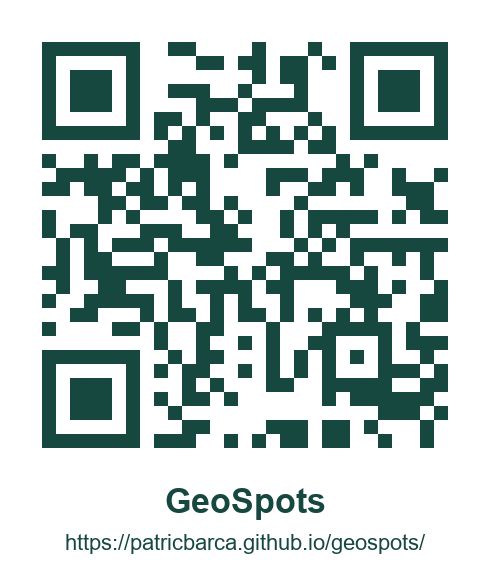
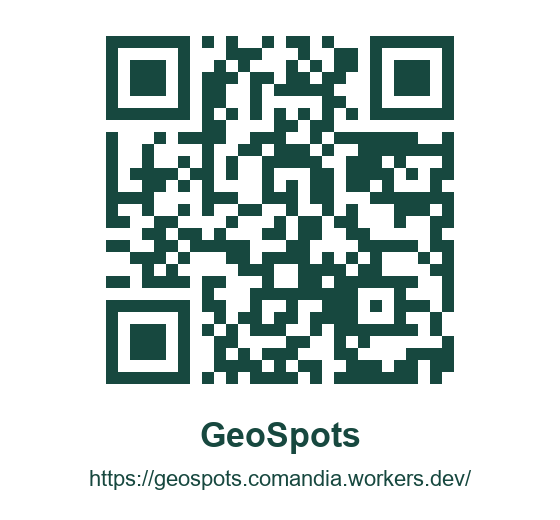
Publicado en Cloudflare; GitHub Pages redirige a la dirección nueva

diff --git a/404.html b/404.html
@@ -1,0 +1,20 @@
+<!doctype html>
+<html lang="es">
+<head>
+<meta charset="utf-8">
+<meta name="viewport" content="width=device-width, initial-scale=1">
+<title>GeoSpots se mudó</title>
+<meta http-equiv="refresh" content="0; url=https://geospots.comandia.workers.dev/">
+<link rel="canonical" href="https://geospots.comandia.workers.dev/">
+<style>body{margin:0;min-height:100vh;display:grid;place-content:center;gap:12px;padding:24px;text-align:center;font:16px system-ui,sans-serif;background:#17483F;color:#EAF2EC}a{color:#F2A93B;font-weight:700}</style>
+</head>
+<body>
+<p>GeoSpots tiene una dirección nueva.</p>
+<p><a href="https://geospots.comandia.workers.dev/">Abrir GeoSpots</a></p>
+<script>
+  // Quitar el service worker viejo de esta dirección para que no siga mostrando la versión anterior.
+  if ('serviceWorker' in navigator) navigator.serviceWorker.getRegistrations().then(rs => rs.forEach(r => r.unregister()));
+  location.replace('https://geospots.comandia.workers.dev/' + location.search);
+</script>
+</body>
+</html>

diff --git a/index.html b/index.html
@@ -1,0 +1,20 @@
+<!doctype html>
+<html lang="es">
+<head>
+<meta charset="utf-8">
+<meta name="viewport" content="width=device-width, initial-scale=1">
+<title>GeoSpots se mudó</title>
+<meta http-equiv="refresh" content="0; url=https://geospots.comandia.workers.dev/">
+<link rel="canonical" href="https://geospots.comandia.workers.dev/">
+<style>body{margin:0;min-height:100vh;display:grid;place-content:center;gap:12px;padding:24px;text-align:center;font:16px system-ui,sans-serif;background:#17483F;color:#EAF2EC}a{color:#F2A93B;font-weight:700}</style>
+</head>
+<body>
+<p>GeoSpots tiene una dirección nueva.</p>
+<p><a href="https://geospots.comandia.workers.dev/">Abrir GeoSpots</a></p>
+<script>
+  // Quitar el service worker viejo de esta dirección para que no siga mostrando la versión anterior.
+  if ('serviceWorker' in navigator) navigator.serviceWorker.getRegistrations().then(rs => rs.forEach(r => r.unregister()));
+  location.replace('https://geospots.comandia.workers.dev/' + location.search);
+</script>
+</body>
+</html>

diff --git a/sw.js b/sw.js
@@ -1,0 +1,7 @@
+// Service worker de la dirección vieja (GitHub Pages): se desinstala y manda a la dirección nueva.
+self.addEventListener('install', () => self.skipWaiting());
+self.addEventListener('activate', (e) => e.waitUntil((async () => {
+  for (const k of await caches.keys()) await caches.delete(k);
+  await self.registration.unregister();
+  for (const c of await self.clients.matchAll({ type: 'window' })) c.navigate('https://geospots.comandia.workers.dev/');
+})()));

diff --git a/README.md b/README.md
@@ -1,31 +1,46 @@
-# GeoSpots (PWA)
+# GeoSpots
 
-App web tipo Avenza: importas un GeoPDF y ves tu posición GPS sobre el plano.
+App web tipo Avenza, pensada para equipos en terreno. Importas un GeoPDF, ves tu posición GPS sobre el plano y registras defectos, eventos y notas con fotos. Todo se comparte con tu equipo.
+
+**App:** https://geospots.comandia.workers.dev
+La dirección vieja, patricbarca.github.io/geospots, redirige a la nueva.
 
 ## Qué hace
-- Lee la georreferencia del PDF (`/VP` → `/Measure /GEO`: GPTS, LPTS, EPSG/WKT) con pdf-lib.
-- Dibuja la zona georreferenciada con pdf.js (hasta unos 16 MP) y la pone sobre MapLibre con sus 4 esquinas.
-- GPS en vivo, círculo de precisión, aviso "en el plano / a X m del plano".
-- Coordenadas en lat/lon y Este/Norte en la proyección del plano (MGA2020, etc.).
-- Pines con nota, recorridos grabados y exportación a GeoJSON/KML.
-- Todo queda en el teléfono (IndexedDB). El service worker guarda la app y las teselas ya vistas para usarlas sin conexión.
+- **Lectura del GeoPDF:** lee la georreferencia (`/VP` → `/Measure /GEO`: GPTS, LPTS, EPSG/WKT) con pdf-lib.
+- **Plano sobre el mapa:** dibuja la zona con pdf.js, hasta unos 16 MP, y la pone sobre MapLibre usando sus 4 esquinas.
+- **GPS en vivo:** muestra el círculo de precisión y avisa "en el plano" o "a X m del plano". Da las coordenadas en lat/lon y en Este/Norte de la proyección del plano (MGA2020, etc.).
+- **Inspección:**
+  - Defectos, eventos y notas con categoría, severidad, estado y fotos.
+  - Recorridos grabados.
+  - Exportación a ZIP (CSV + fotos), KML y GeoJSON.
+- **Cuentas y equipos:**
+  - Cuentas con email y contraseña.
+  - Equipos con invitación por link.
+  - El plano procesado, los puntos, las fotos y los recorridos se comparten con el equipo.
+- **Sin conexión:** todo se guarda primero en el teléfono (IndexedDB) y se envía cuando hay señal. El service worker guarda la app y las teselas ya vistas.
 
-## Correr en local
-```
-python -m http.server 8765 --bind 127.0.0.1
-```
-Abre http://localhost:8765. Para pruebas: `?import=samples/plano-prueba.pdf` importa el PDF de ejemplo.
+## Arquitectura (Cloudflare, plan gratis)
+- `public/`: la PWA, que se sirve como assets del Worker.
+- `src/worker.js`: la API `/api/*`, que cubre:
+  - cuentas: registro, login y sesiones;
+  - equipos e invitaciones;
+  - registros sincronizados, con un número de cambio por equipo;
+  - archivos.
+- `migrations/`: el esquema de D1.
+- D1 `geospots` (región Oceanía) guarda usuarios, equipos y registros. R2 `geospots-files` guarda las imágenes de planos y las fotos.
 
-En el teléfono el GPS solo funciona con HTTPS, así que hay que publicarla (Cloudflare Pages, GitHub Pages, etc.).
+## Archivos de la app
+- `public/js/geo.js`: lectura del GeoPDF, homografía y proyecciones.
+- `public/js/importer.js`: render del PDF a imagen y guardado.
+- `public/js/inspect.js`: tipos de punto, fotos y cola de envío.
+- `public/js/cloud.js`: cuenta, envío y recepción de cambios.
+- `public/js/app.js`: mapa, GPS, puntos, recorridos, cuenta y exportación.
+- `public/sw.js`: modo sin conexión. La API nunca se guarda en caché.
 
-## Archivos
-- `js/geo.js`: lectura del GeoPDF, homografía y proyecciones.
-- `js/importer.js`: render del PDF a imagen y guardado.
-- `js/app.js`: mapa, GPS, pines, recorridos, exportar.
-- `js/db.js`: IndexedDB.
-- `sw.js`: modo sin conexión.
+Despliegue y desarrollo local: ver [DESPLIEGUE.md](DESPLIEGUE.md).
 
 ## Límites conocidos
-- En iOS el GPS se detiene con la pantalla apagada (la app pide mantener la pantalla encendida mientras graba).
-- Teselas de OpenStreetMap: sirven para pruebas; para uso real hace falta un proveedor con plan (MapTiler, Stadia, etc.).
+- En iOS el GPS se detiene con la pantalla apagada. La app pide mantener la pantalla encendida mientras graba.
+- Las teselas de OpenStreetMap sirven para pruebas. Para uso real hace falta un proveedor con plan (MapTiler, Stadia, etc.).
 - Aún no lee el formato antiguo de TerraGo (LGIDict) ni recorta con `/Bounds`.
+- Todavía no hay recuperación de contraseña por email.

diff --git a/DESPLIEGUE.md b/DESPLIEGUE.md
@@ -4,14 +4,10 @@
 - **D1 `geospots`:** creada el 18-nov-2026 en la región `oc` (Oceanía), porque la app es para Australia.
   - `database_id`: `c550a8a3-d2ec-4174-a2ec-891d33a6ac04`
   - La migración 0001 ya está aplicada en remoto.
-- **R2 `geospots-files`:** pendiente. Primero hay que activar R2 en la cuenta. Ese paso lo hace Pat en el panel de Cloudflare (R2 Object Storage → "Add R2 subscription"), porque implica aceptar una suscripción.
-- **URL prevista:** https://geospots.comandia.workers.dev (el subdominio workers.dev de la cuenta es `comandia`). Se puede cambiar por un dominio propio.
+- **R2 `geospots-files`:** creado el 18-nov-2026 en `oc` (Pat activó R2 ese día).
+- **URL:** https://geospots.comandia.workers.dev (el subdominio workers.dev de la cuenta es `comandia`). Se puede cambiar por un dominio propio.
 
-## Primer despliegue (cuando R2 esté activo)
-```bash
-npx wrangler r2 bucket create geospots-files --location oc
-npx wrangler deploy
-```
+Primer despliegue: 18-nov-2026. Después se borraron las cuentas de prueba (@ejemplo.com) y sus archivos.
 
 ## Para volver a desplegar
 ```bash
@@ -27,4 +23,4 @@ npx wrangler dev --port 8799 --persist-to C:/gs-state
 ```
 
 ## GitHub Pages
-La versión sin servidor sigue publicada desde `main` en https://patricbarca.github.io/geospots/. Después del despliegue, esa página debe redirigir a la URL de Cloudflare.
+`index.html`, `404.html` y `sw.js` de la raíz del repo publican en https://patricbarca.github.io/geospots/ una página que redirige a la URL de Cloudflare y desinstala el service worker viejo.
